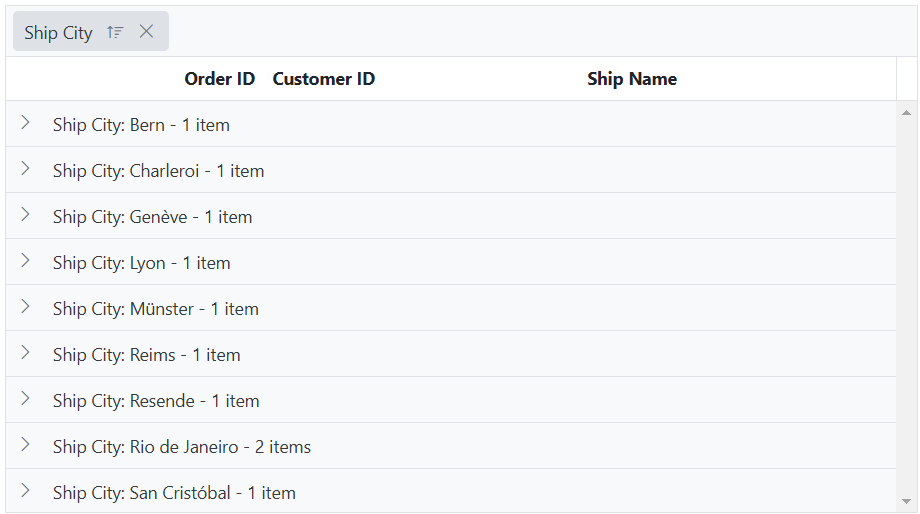
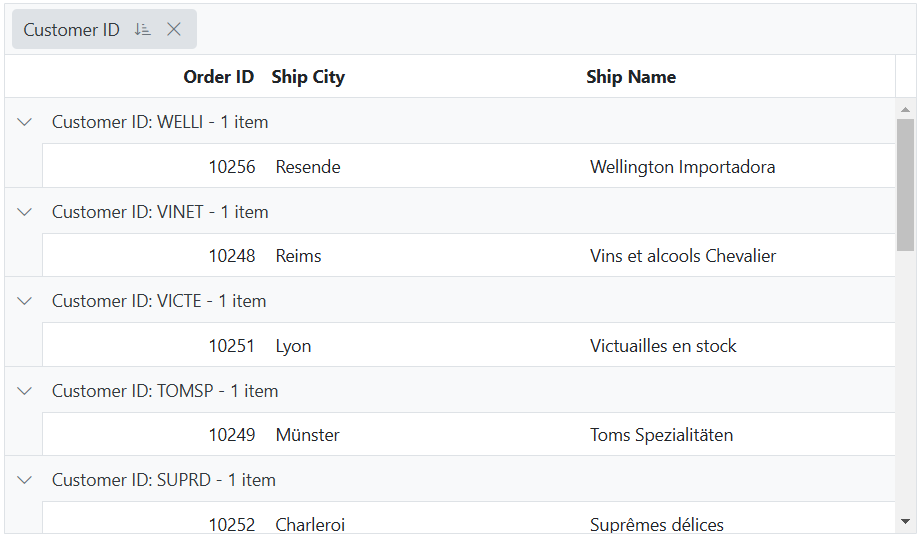
documentation(919317):Updated.

diff --git a/ej2-asp-core-mvc/grid/EJ2_ASP.MVC/grouping/grouping.md b/ej2-asp-core-mvc/grid/EJ2_ASP.MVC/grouping/grouping.md
@@ -47,7 +47,7 @@ The following example demonstrates how to set an initial grouping for the **Cust
 
 ## Prevent grouping for particular column
 
-The Grid component provides the ability to prevent grouping for a particular column. This can be useful when you have certain columns that you do not want to be included in the grouping process. It can be achieved by setting the [AllowGrouping](https://help.syncfusion.com/cr/aspnetmvc-js2/Syncfusion.EJ2.Grids.Grid.html#Syncfusion_EJ2_Grids_Grid_AllowGrouping) property of the particular `column` to **false**. The following example demonstrates, how to disable grouping for **CustomerID** column. 
+The Grid component provides the ability to prevent grouping for a particular column. This can be useful when you have certain columns that you do not want to be included in the grouping process. It can be achieved by setting the [AllowGrouping](https://help.syncfusion.com/cr/aspnetmvc-js2/Syncfusion.EJ2.Grids.Grid.html#Syncfusion_EJ2_Grids_Grid_AllowGrouping) property of the particular `Column` to **false**. The following example demonstrates, how to disable grouping for **CustomerID** column. 
 
 {% tabs %}
 {% highlight cshtml tabtitle="CSHTML" %}
@@ -111,11 +111,11 @@ To enable this feature, you have to set the [GroupSettings.AllowReordering](http
 {% endhighlight %}
 {% endtabs %}
 
-![Grouping](../images/grouping/grouping-reorder.png)
+![Grouping](../../images/grouping/grouping-reorder.gif)
 
 ## Sort grouped columns in descending order during initial grouping
 
-By default, grouped columns are sorted in ascending order. However, you can sort them in descending order during initial grouping by setting the `field` and `direction` in the [SortSettings.Columns](https://help.syncfusion.com/cr/aspnetmvc-js2/Syncfusion.EJ2.Grids.GridSortSettings.html#Syncfusion_EJ2_Grids_GridSortSettings_Columns) property.
+By default, grouped columns are sorted in ascending order. However, you can sort them in descending order during initial grouping by setting the `Field` and `Direction` in the [SortSettings.Columns](https://help.syncfusion.com/cr/aspnetmvc-js2/Syncfusion.EJ2.Grids.GridSortSettings.html#Syncfusion_EJ2_Grids_GridSortSettings_Columns) property.
 
 The following example demonstrates how to sort the **CustomerID** column by setting the `SortSettings.Columns` property to **Descending** during the initial grouping of the grid.
 
@@ -123,12 +123,12 @@ The following example demonstrates how to sort the **CustomerID** column by sett
 {% highlight cshtml tabtitle="CSHTML" %}
 {% include code-snippet/grid/grouping/group-sort-descending/razor %}
 {% endhighlight %}
-{% highlight c# tabtitle="GroupOrdering.cs" %}
-{% include code-snippet/grid/grouping/group-sort-descending/GroupOrdering.cs %}
+{% highlight c# tabtitle="group.cs" %}
+{% include code-snippet/grid/grouping/group-sort-descending/group.cs %}
 {% endhighlight %}
 {% endtabs %}
 
-![Grouping](../images/grouping/grouping-reorder.png)
+![Grouping](../../images/grouping/grouping-descending-order.png)
 
 ## Group with paging
 

diff --git a/ej2-asp-core-mvc/grid/EJ2_ASP.MVC/grouping/lazy-load-grouping.md b/ej2-asp-core-mvc/grid/EJ2_ASP.MVC/grouping/lazy-load-grouping.md
@@ -117,7 +117,7 @@ The following example demonstrates how to enable the lazy load grouping with inf
 {% include code-snippet/grid/grouping/lazy-load-grouping-scroll/razor %}
 {% endhighlight %}
 {% highlight c# tabtitle="lazy-load.cs" %}
-{% include code-snippet/grid/grouping/lazy-load-grouping-scroll/lazy-load.cs %}
+{% include code-snippet/grid/grouping/lazy-load-grouping-scroll/lazy-load-grouping-scroll.cs %}
 {% endhighlight %}
 {% endtabs %}
 

diff --git a/ej2-asp-core-mvc/grid/EJ2_ASP.NETCORE/grouping/grouping.md b/ej2-asp-core-mvc/grid/EJ2_ASP.NETCORE/grouping/grouping.md
@@ -318,3 +318,6 @@ The following example demonstrates how the `actionBegin` and `actionComplete` ev
 * Grouping is not compatible with the following features:
     1. Autofill
 
+## See Also
+
+* [Exporting grouped records](../../EJ2_ASP.NETCORE/excel-export/excel-exporting#Exporting-grouped-records)
